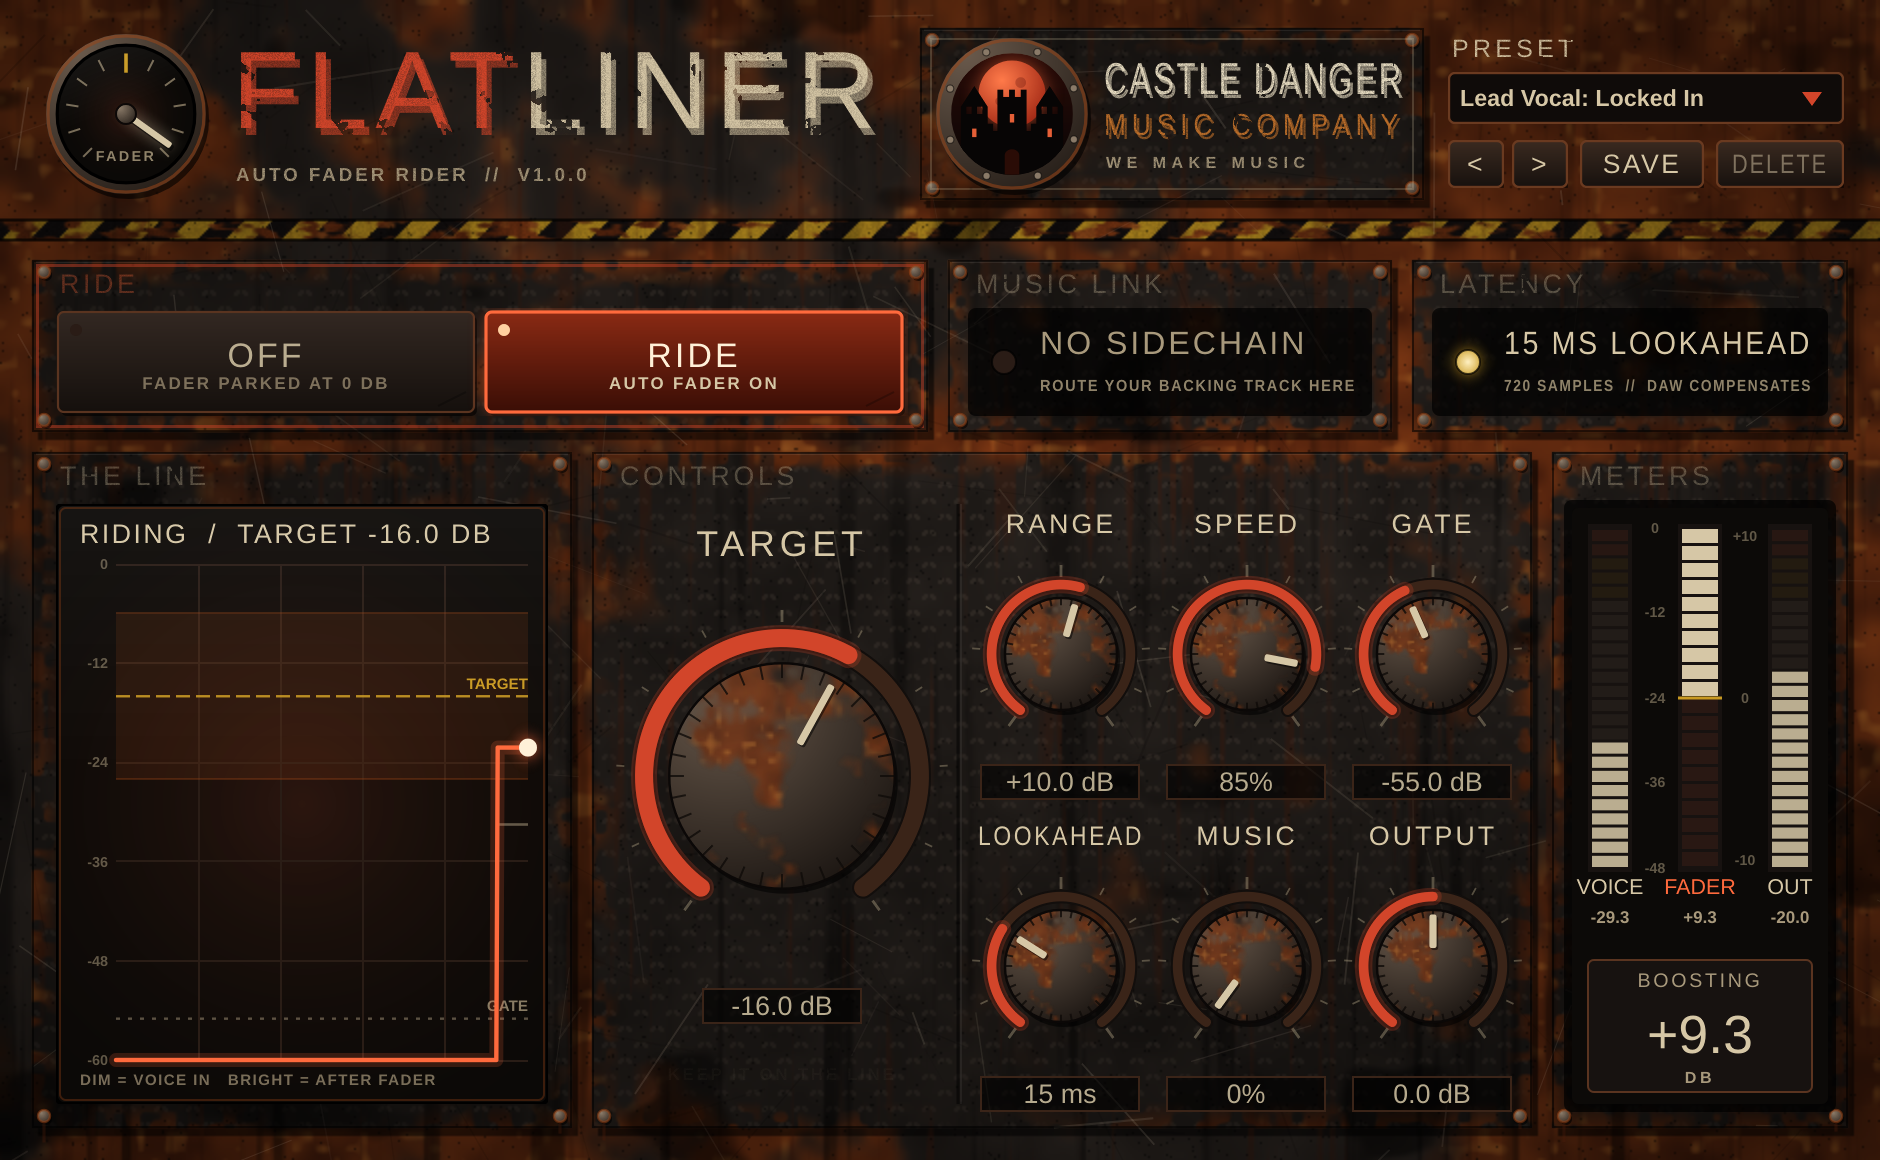
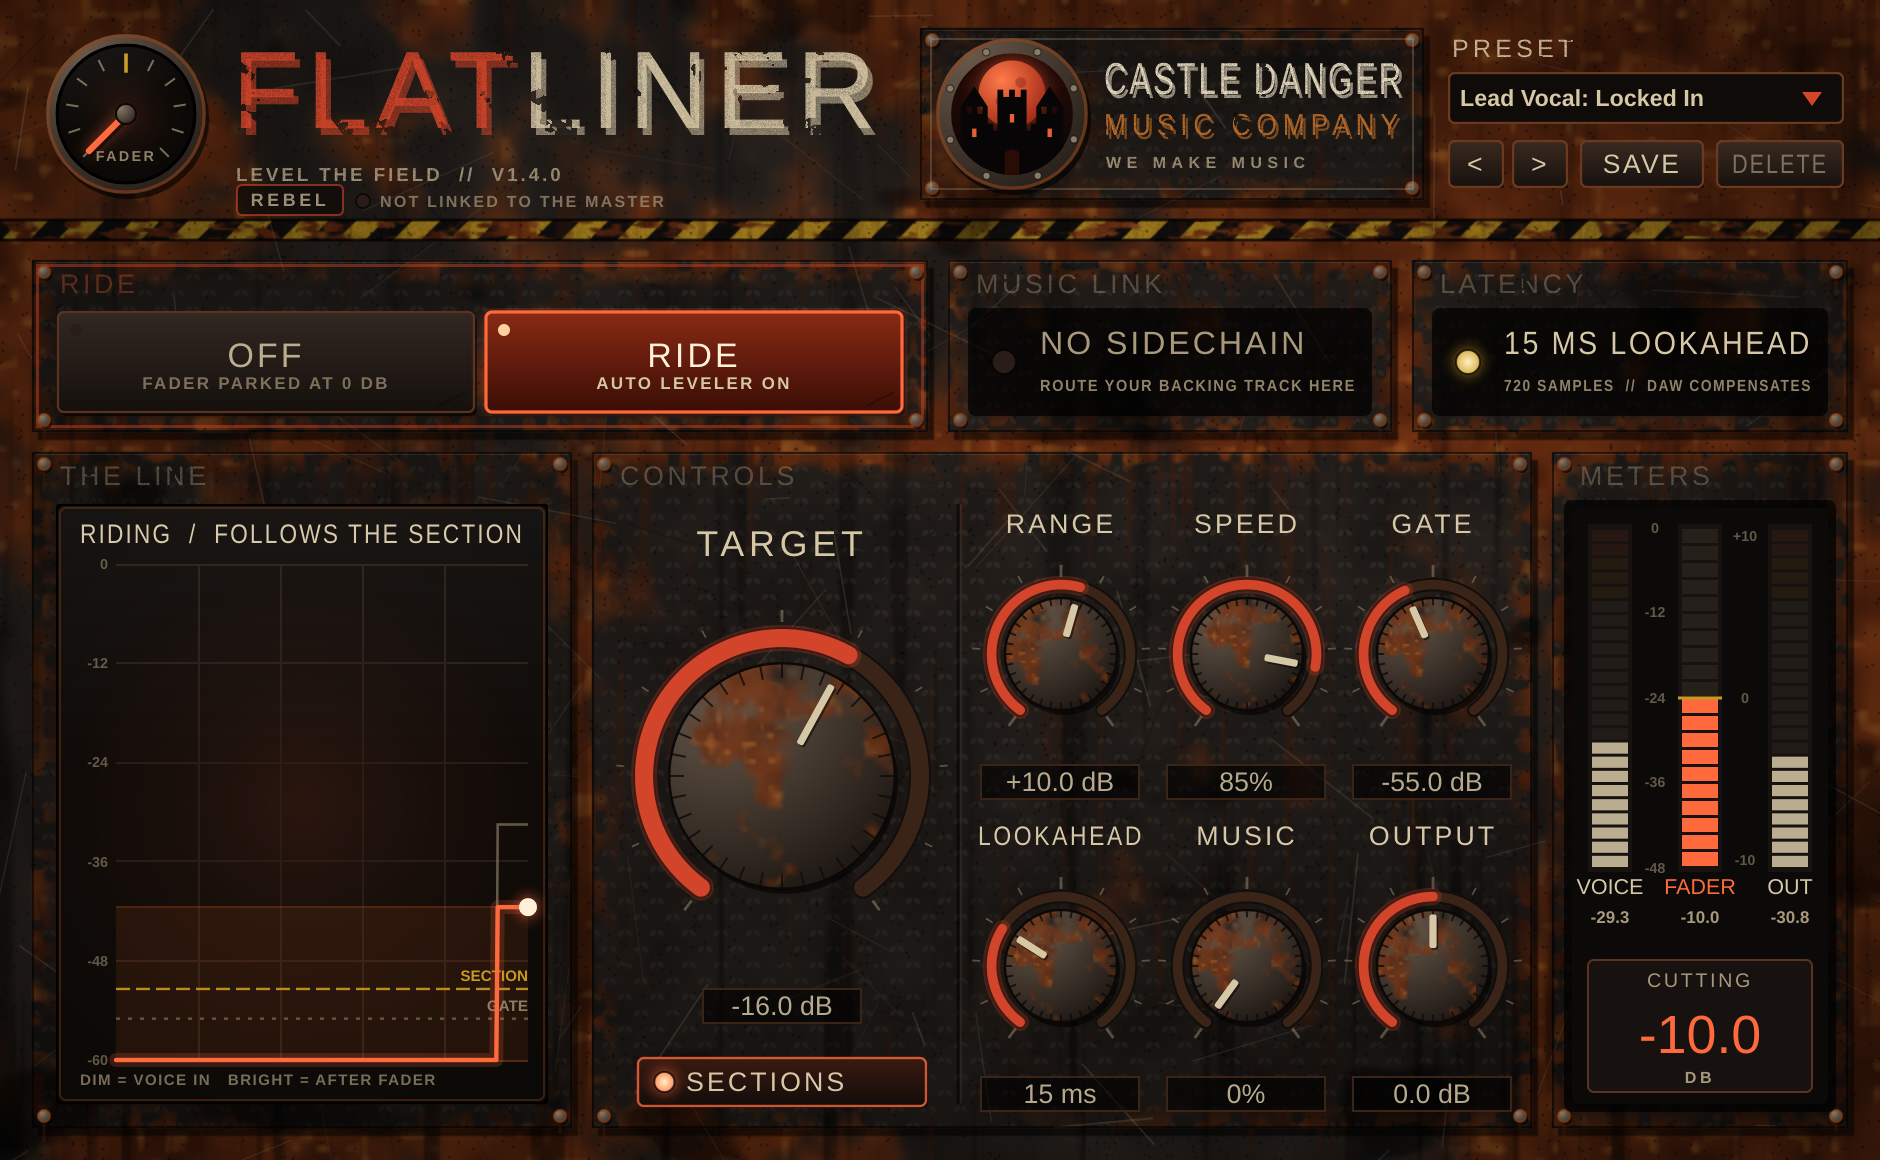
Flatliner 1.4.1: auto leveler, tagline Level the Field
Claude-Session: https://claude.ai/code/session_019kbSwgoccYHhWiVXbShtKM

diff --git a/Source/PluginEditor.cpp b/Source/PluginEditor.cpp
@@ -726,7 +726,7 @@ void MeterPanel::paint (juce::Graphics& g)
 //==============================================================================
 FlatlinerEditor::FlatlinerEditor (FlatlinerProcessor& p)
     : AudioProcessorEditor (&p), proc (p),
-      rideSel (*p.apvts.getParameter ("ride"), { "OFF", "RIDE" }, { "FADER PARKED AT 0 DB", "AUTO FADER ON" }),
+      rideSel (*p.apvts.getParameter ("ride"), { "OFF", "RIDE" }, { "FADER PARKED AT 0 DB", "AUTO LEVELER ON" }),
       scope (p)
 {
     setLookAndFeel (&lnf);
@@ -1020,7 +1020,7 @@ void FlatlinerEditor::buildBackdrop()
     g.drawImage (l3, juce::Rectangle<float> (tx + 1.0f, badge.getY() + 60.0f, tw, 14.0f));
 
     // stamped subtitle under the logo
-    auto sub = tex::distressedText ("AUTO FADER RIDER  //  V" + juce::String (JucePlugin_VersionString),
+    auto sub = tex::distressedText ("LEVEL THE FIELD  //  V" + juce::String (JucePlugin_VersionString),
                                     320, 14, tex::plainBold (10.5f), pal::paintDim, juce::Justification::centredLeft, scale, 0.15f, 99, 0.14f);
     g.drawImage (sub, juce::Rectangle<float> (118.0f, 80.0f, 320.0f, 14.0f));
 

diff --git a/Source/FlatlinerEngine.h b/Source/FlatlinerEngine.h
@@ -1,5 +1,5 @@
 #pragma once
-// FLATLINER engine: an automatic fader rider.
+// FLATLINER engine: an auto leveler.
 //   Listens to the vocal, works out how far it is from TARGET, and moves a virtual fader
 //   (within +/- RANGE dB) to flatten the performance onto that line.
 //   Lookahead delays the audio so the fader is already moving when a loud or quiet phrase arrives.

diff --git a/README.md b/README.md
@@ -1,12 +1,12 @@
 # Flatliner
 
-An automatic vocal fader rider (VST3 / AU) by **Castle Danger Music Company**.
+An auto leveler (VST3 / AU) by **Castle Danger Music Company**. *Level the Field.*
 
 Flatliner listens to the vocal and moves a virtual fader for you, pushing quiet words up and pulling loud ones down so the performance sits on one flat line.
 
 - **Target / Range / Speed:** the level to aim for, how far the fader may move, and how fast it moves (cuts are always faster than boosts)
 - **Gate:** the fader freezes below this level so breaths and room noise don't get pushed up
-- **Lookahead:** 0-50 ms; the audio is delayed while the rider listens early, so the fader is already moving when a phrase arrives (latency reported to the host)
+- **Lookahead:** 0-50 ms; the audio is delayed while Flatliner listens early, so the fader is already moving when a phrase arrives (latency reported to the host)
 - **Music:** route the backing track to the sidechain and the vocal target rises with the music
 - **Extras:** live scrolling scope, fader gauge, VOICE / FADER / OUT meters, factory + user presets
 
